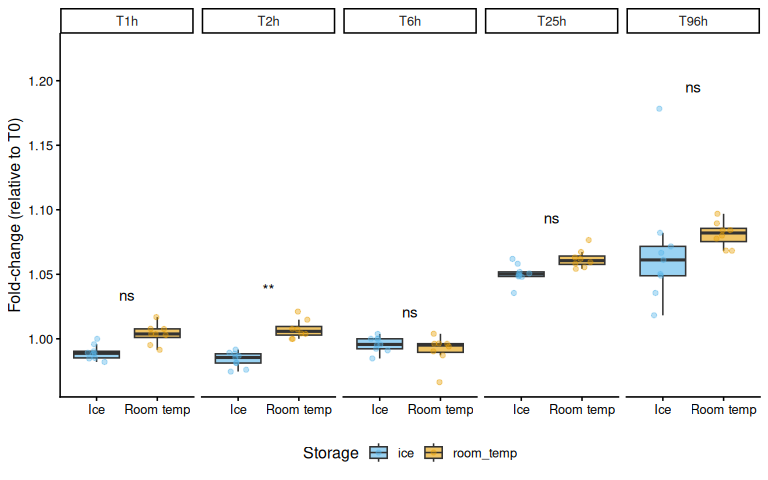
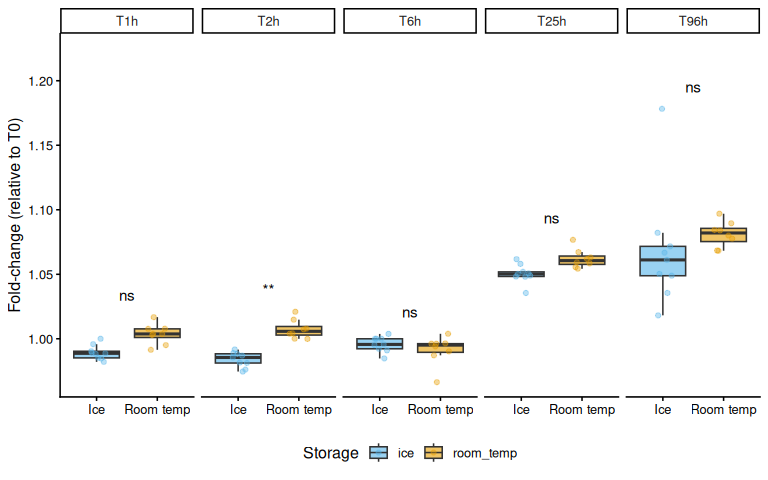
handle "extra" sample in 20260528 stability Rmd

diff --git a/scripts/fluorescence_stability/00.00-fluorescence_stability-20260528.md b/scripts/fluorescence_stability/00.00-fluorescence_stability-20260528.md
@@ -412,6 +412,7 @@ individual_colours <- c(
   "3"  = "#009E73",
   "5"  = "#F0E442",
   "6"  = "#0072B2",
+  "7"  = "#000000",
   "9"  = "#D55E00",
   "10" = "#CC79A7",
   "11" = "#999999"
